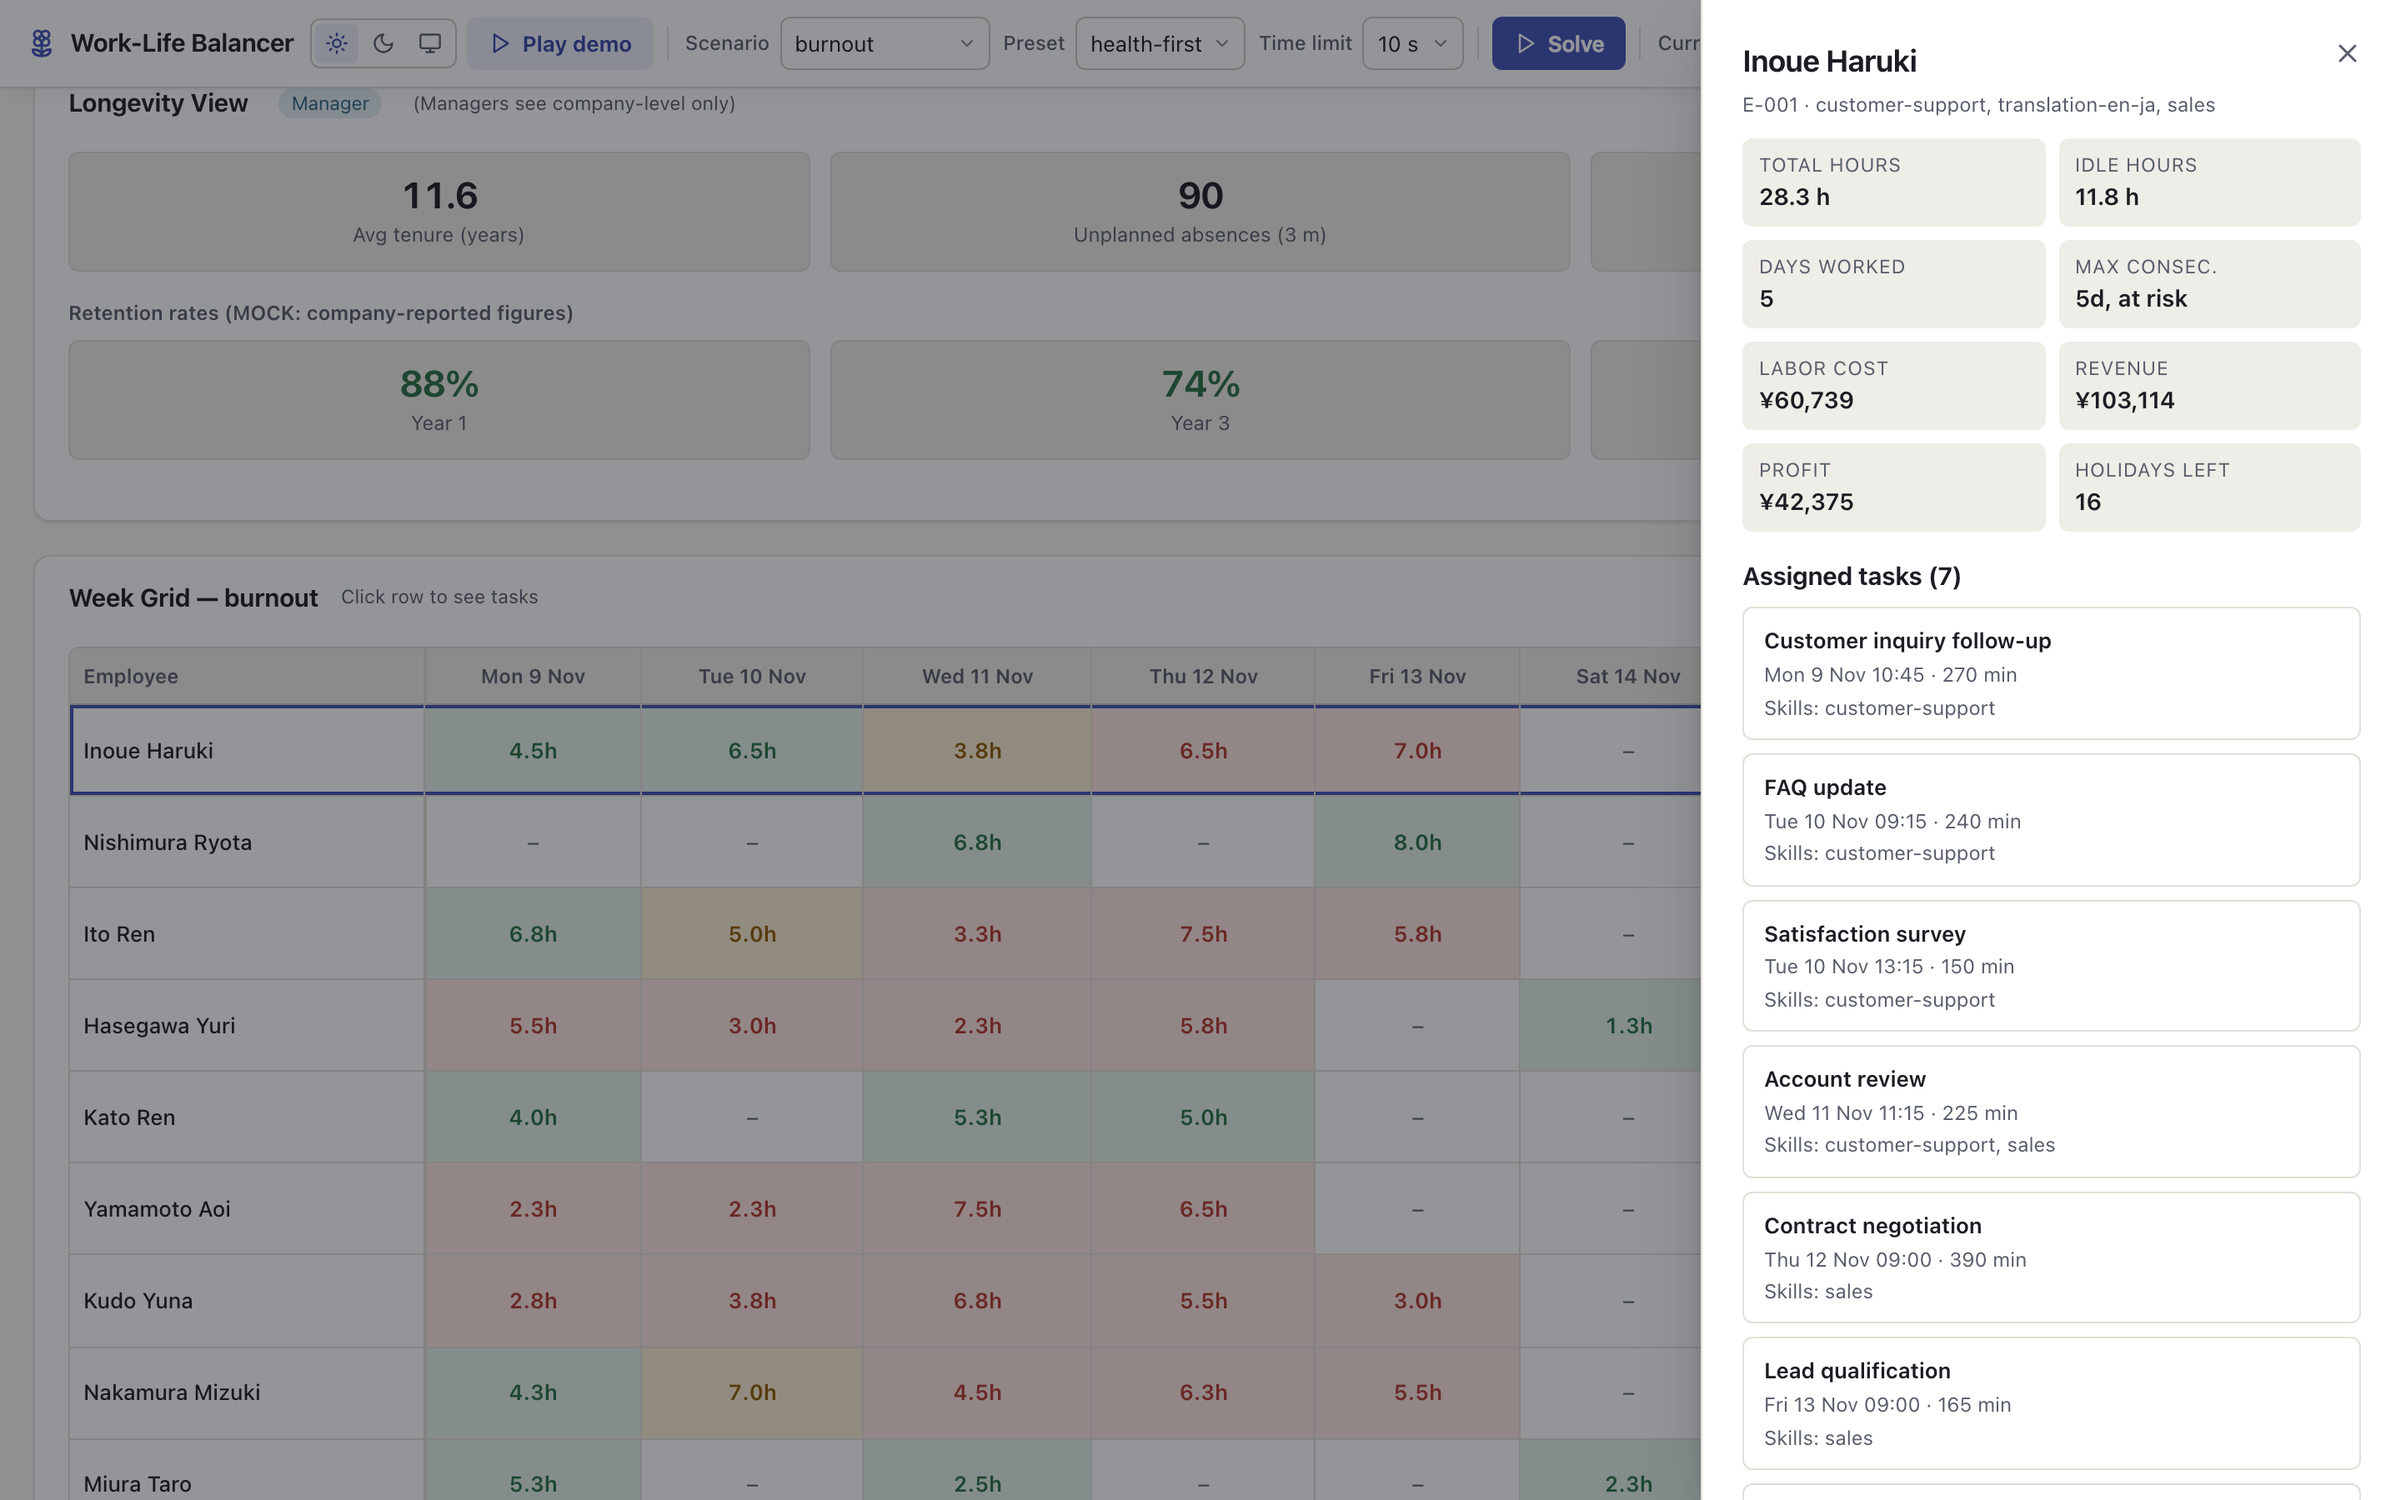
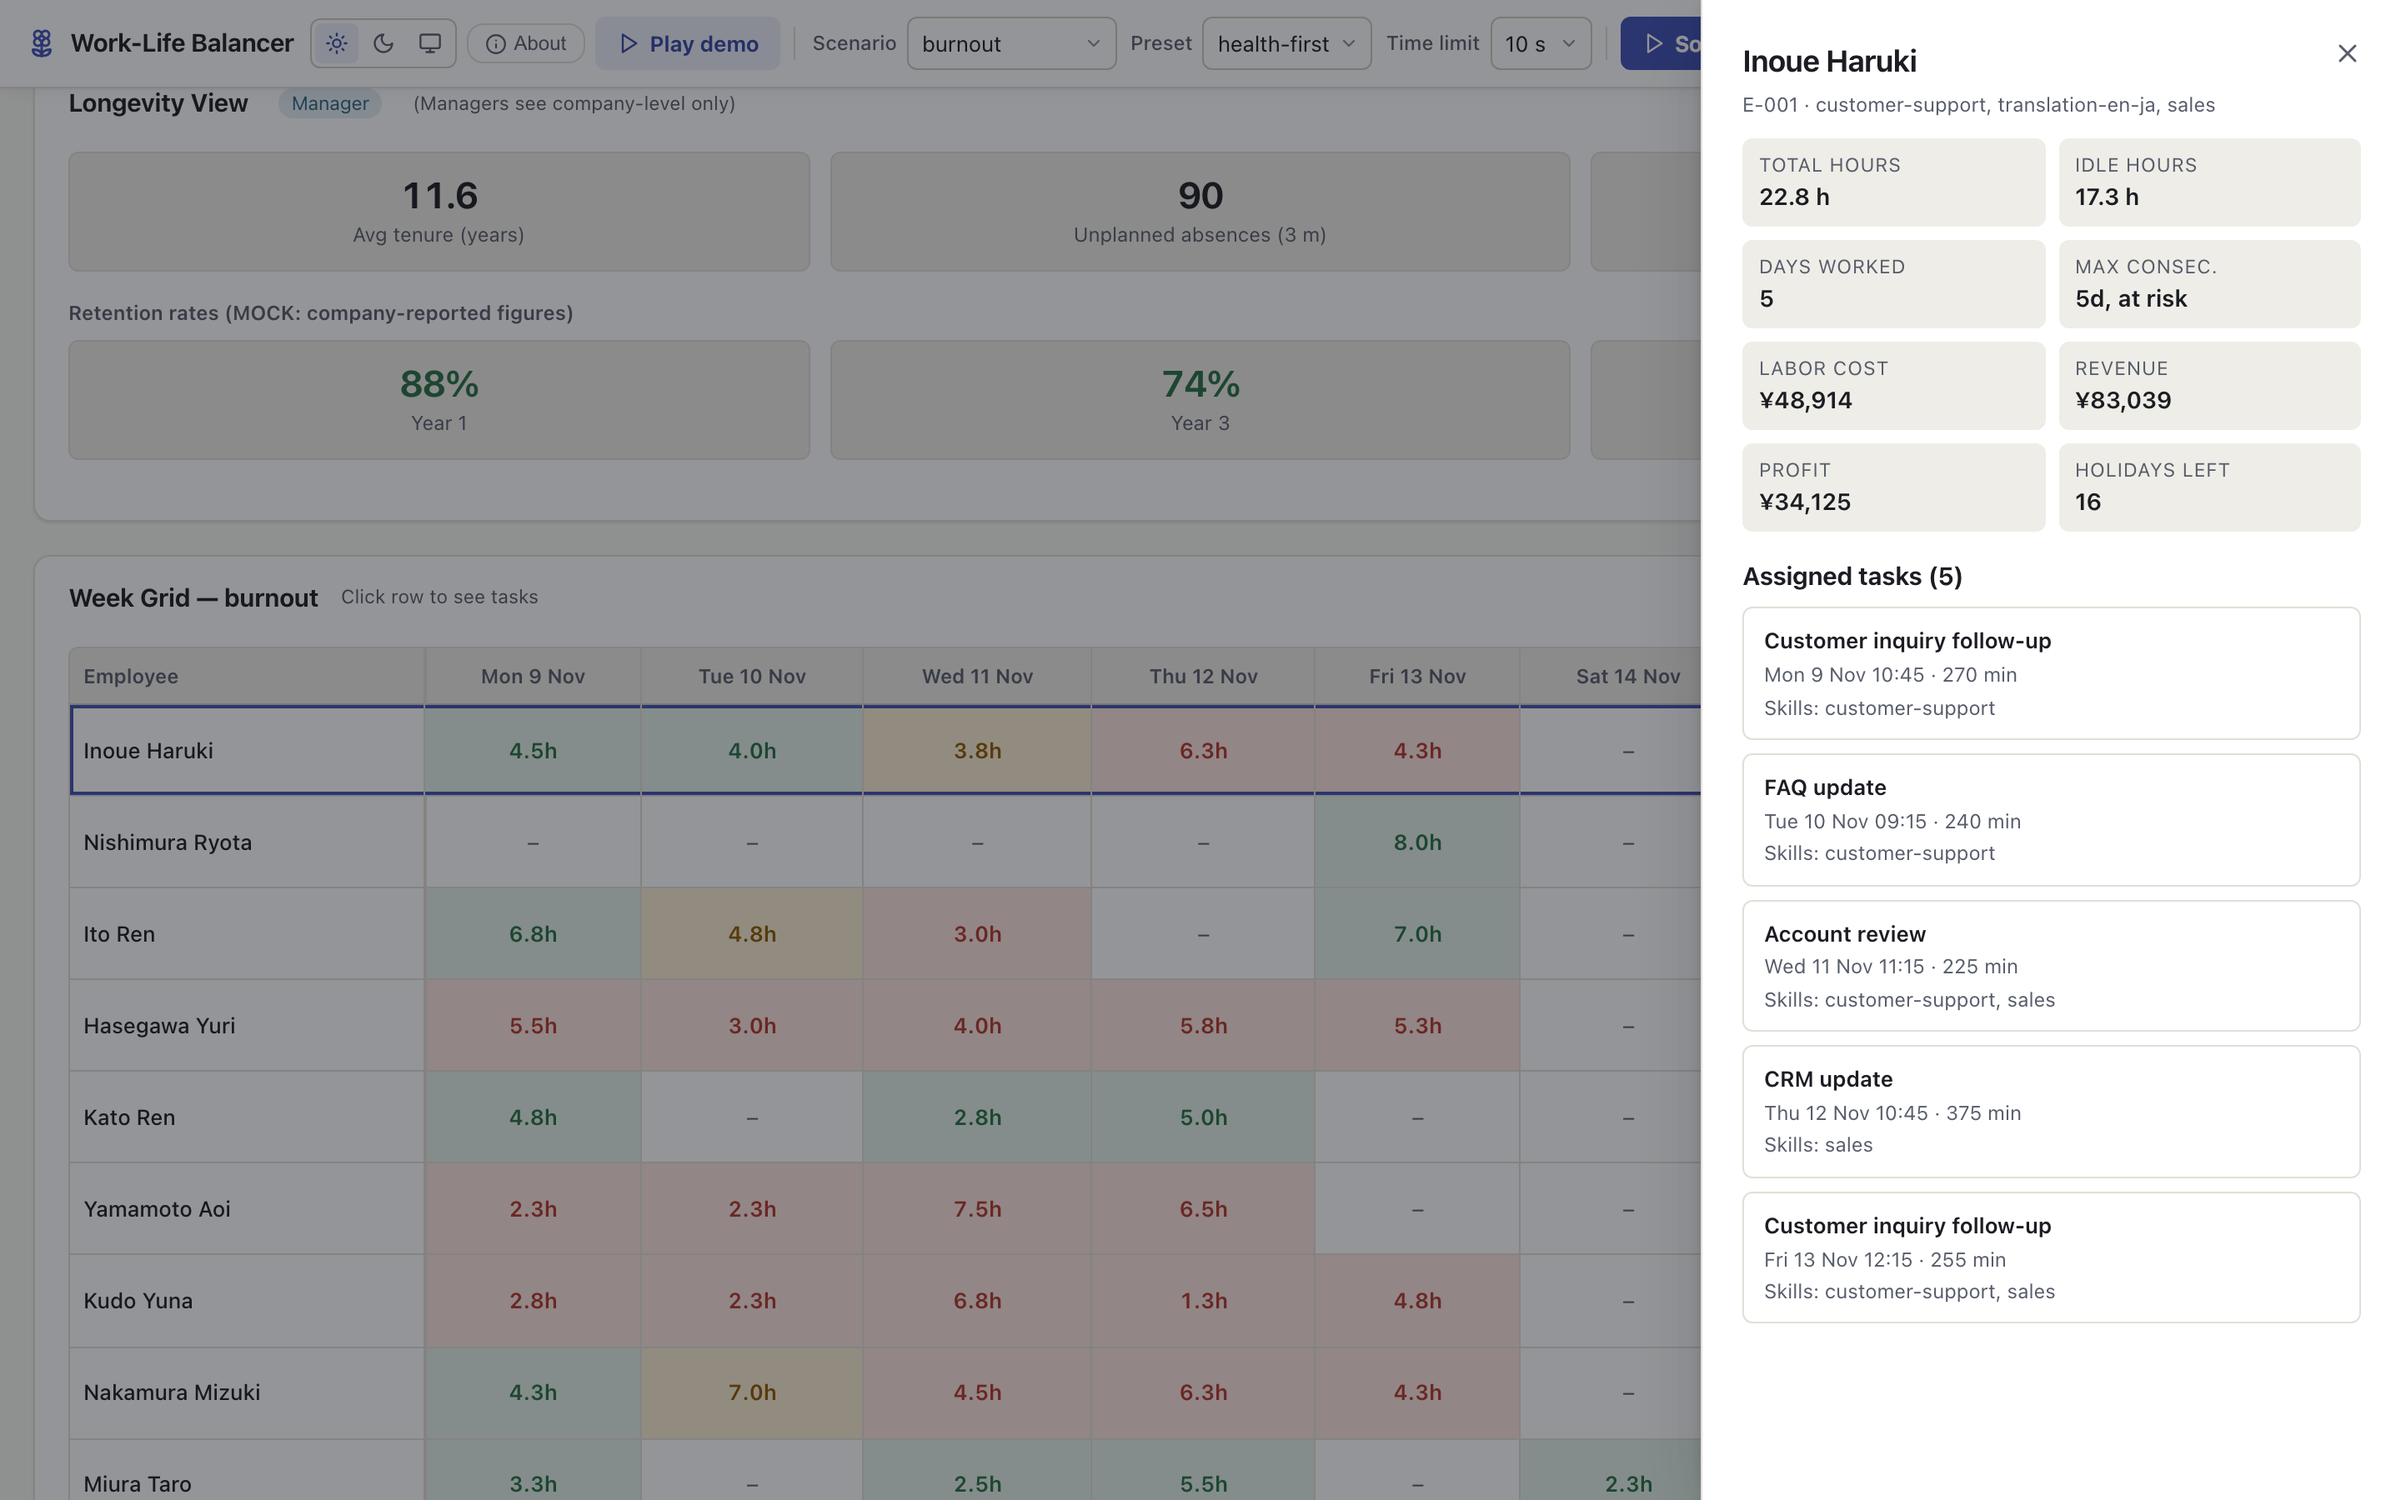
docs(screenshots): reshoot gallery and add About modal capture
All 13 UI screenshots reshotton against the running demo to pick up the
About button in the TopBar. New 10-about-modal.png added to 03-details/.
README thumbnail strip updated (15→16 shots); docs/screenshots/README.md
gets the new entry.

CLAUDE.md layout table: add docs/install-tools.md (was missing).
Build spec status note: record About modal and make check split.

diff --git a/CLAUDE.md b/CLAUDE.md
@@ -29,7 +29,7 @@ When the PRD and the build spec disagree, **the build spec wins** (it records de
 
 ```
 japanese-work-life-balancer/
-├── Makefile          # setup | data | model | ui | mcp | demo | test | clean
+├── Makefile          # check | setup | data | model | ui | mcp | demo | test | clean
 ├── scripts/
 │   ├── dev.sh        # started by `make demo`; spawns model, ui, mcp; logs → .logs/
 │   └── capture-gallery.py  # re-shoots docs/screenshots/ from a running demo (Playwright)
@@ -39,6 +39,7 @@ japanese-work-life-balancer/
 ├── .gitignore
 ├── docs/plan/        # PRD, questions, prompts
 ├── docs/external-services.md  # ElevenLabs + Timefold accounts, keys, licence (outside the repo)
+├── docs/install-tools.md      # macOS / Linux / WSL from-scratch tool installation
 ├── docs/maintaining.md        # checks, regeneration, toolchain traps (human-facing)
 ├── docs/screenshots/ # gallery + README
 ├── data-gen/         # Python generator (stdlib only, seeded) -> data-gen/out/*.json

diff --git a/docs/plan/claude-code-prompt.md b/docs/plan/claude-code-prompt.md
@@ -5,7 +5,8 @@
 > `Consecutive days risk` constraint adds a per-person flat charge (`AT_RISK_PERSON_PENALTY = 2400`) in addition to
 > the per-day formula; scenarios were retuned for demonstrability (see README → Scenarios and "What is mocked").
 > Extra UI features beyond the spec: solver replay bar, guided "▶ Play demo" tour (19 steps), theme toggle,
-> plain-language KPI ⓘ tooltips, Compare runs as a collapsed `<details>` panel.
+> plain-language KPI ⓘ tooltips, Compare runs as a collapsed `<details>` panel, About modal (constraints,
+> KPIs, stack reference).  `make check` was split out from `setup` as a separate dry-run verification target.
 > → See [README.md](../../README.md#deviations) for full details.
 
 You are building a hackathon entry for **Hack for Humanity London (2026-10-29)** in the current directory:

diff --git a/README.md b/README.md
@@ -111,10 +111,16 @@ voice. For the premium ElevenLabs narrator or Timefold Enterprise, see [external
     </a>
     <sub><b>Phone</b> — 390 px wide</sub>
   </td>
+  <td align="center" width="25%">
+    <a href="docs/screenshots/03-details/10-about-modal.png">
+      <img src="docs/screenshots/03-details/10-about-modal.png" width="100%" alt="About modal showing constraints, KPIs and stack">
+    </a>
+    <sub><b>About</b> — constraints &amp; stack</sub>
+  </td>
 </tr>
 </table>
 
-> Full gallery (15 shots, with captions) → [docs/screenshots/](docs/screenshots/README.md)
+> Full gallery (16 shots, with captions) → [docs/screenshots/](docs/screenshots/README.md)
 
 ---
 

diff --git a/docs/screenshots/README.md b/docs/screenshots/README.md
@@ -65,6 +65,10 @@ Drill-downs: what each number means, one person's week, longevity data and an ov
 
 ![Broken constraints panel for the overloaded scenario: 0 hard, 143 unassigned tasks as medium penalties](03-details/09-overloaded-broken-constraints.png)
 
+### About modal — constraints, KPIs and stack reference
+
+![About modal listing all hard and soft constraints, KPI definitions and the technology stack](03-details/10-about-modal.png)
+
 ---
 
 ## 4. Themes and mobile
